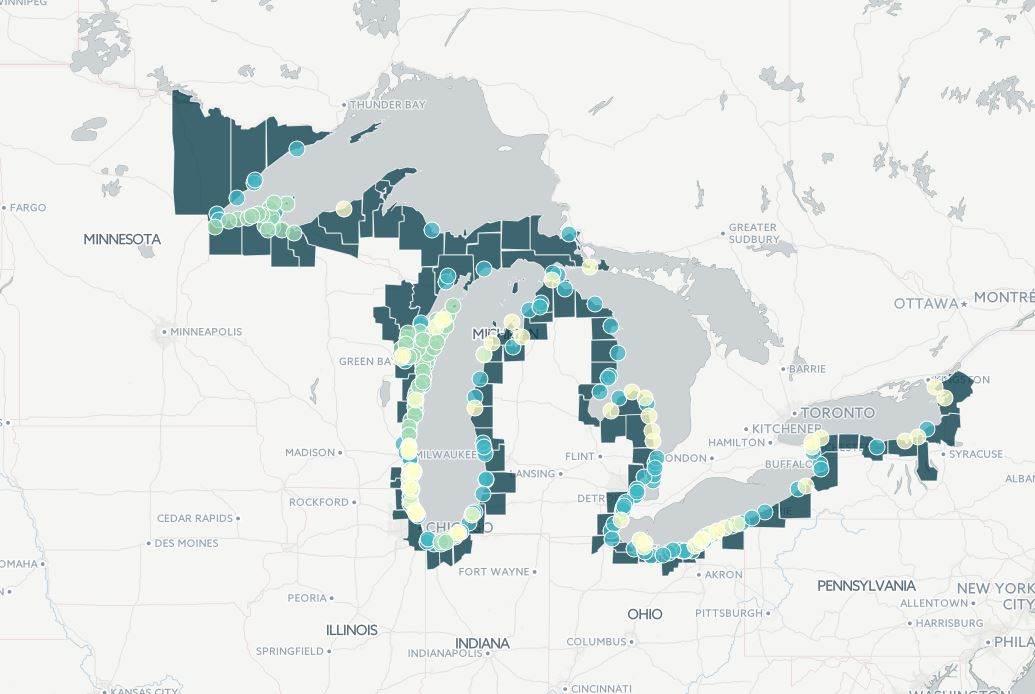
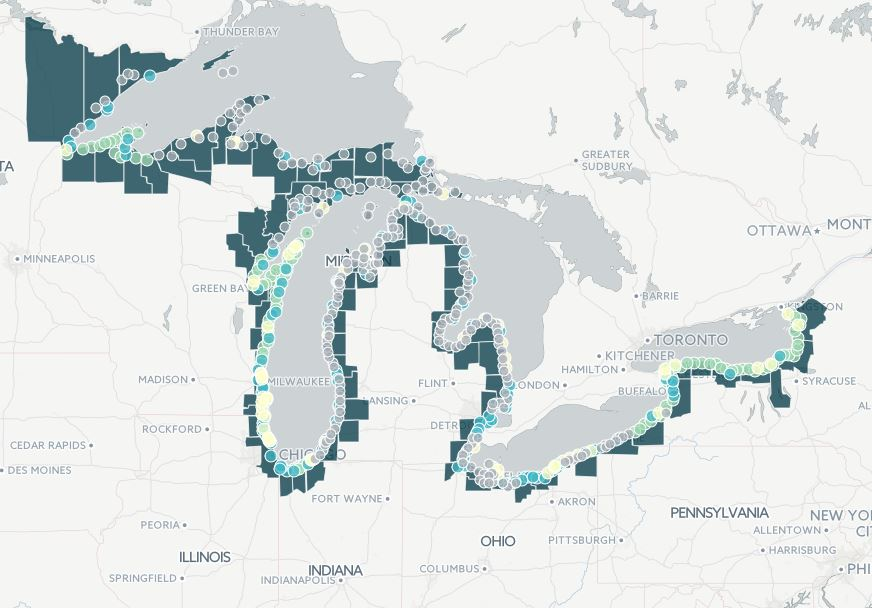
updates

diff --git a/index.html b/index.html
@@ -32,28 +32,51 @@
 		<div class="container">
 			<div class="row padRow">
 				<div class="col-md-6">
-					<a href="https://coastmapdevelop.github.io/testGoogleSpreadsheet/" target="_blank"><img class="img-responsive myImage" src="img/greatLakes.JPG" alt="Great Lakes"></a>
+					<a href="https://coastmapdevelop.github.io/fullCoast/" target="_blank"><img class="img-responsive myImage" src="img/greatLakes.JPG" alt="Great Lakes"></a>
 				</div>
 				<div class="col-md-6 myCol">
 					<h4><b>Great Lakes Coastal Overview</b></h4>
-					<p>This web map contains counties, cities, towns, and villages for all communities around the Great Lakes.</p>
+					<p>This web map contains counties, cities, towns, villages, and other (townships, charter townships, buroughs, Indian reservations) for all communities around the Great Lakes.</p>
 				</div>
 			</div>
 			
 			
 			<div class="row padRow">
 				<div class="col-md-6">
-					<a href="https://coastmapdevelop.github.io/southernWI/" target="_blank"><img class="img-responsive myImage" src="img/southernWI.JPG" alt="Southern Wisconsin"></a>
+					<a href="https://coastmapdevelop.github.io/fullWisconsin/" target="_blank"><img class="img-responsive myImage" src="img/fullWisconsin.JPG" alt="Full Wisconsin"></a>
+				</div>
+				<div class="col-md-6 myCol">
+					<h4><b>Wisconsin Coastal Overview</b></h4>
+					<p>This web map contains counties, cities, towns, and villages for all Wisconsin Coastal Communities.</p>
+				</div>
+			</div>
+			
+			<div class="row padRow">
+				<div class="col-md-6">
+					<a href="https://coastmapdevelop.github.io/southernWisconsin/" target="_blank"><img class="img-responsive myImage" src="img/southernWisconsin.JPG" alt="Southern Wisconsin"></a>
 				</div>
 				<div class="col-md-6 myCol">
 					<h4><b>Southern Wisconsin Coastal Overview</b></h4>
-					<p>This web map contains only four counties in southern Wisconsin that border Lake Michigan, including Kenosha, Racine, Milwaukee, and Ozaukee. In addition 
-						the map includes the cities, towns, and villages within those counties. (most recent development).</p.
+					<p>This web map contains only four counties in southern Wisconsin that border Lake Michigan; Kenosha, Racine, Milwaukee, and Ozaukee county. In addition 
+						the map includes the cities, towns, and villages within those counties.</p>
 				</div>
 			</div>
+			
+			
 		</div>
 	</section>
-	
+	<!--
+	<div class="row padRow">
+				<div class="col-md-6">
+					<a href="https://coastmapdevelop.github.io/southernWisconsin/" target="_blank"><img class="img-responsive myImage" src="img/southernWI.JPG" alt="Southern Wisconsin"></a>
+				</div>
+				<div class="col-md-6 myCol">
+					<h4><b>Southern Wisconsin Coastal Overview</b></h4>
+					<p>This web map contains only four counties in southern Wisconsin that border Lake Michigan; Kenosha, Racine, Milwaukee, and Ozaukee county. In addition 
+						the map includes the cities, towns, and villages within those counties.</p>
+				</div>
+			</div>
+			-->
 	
 	
 

diff --git a/fullCoast/js/initMapLeaf.js b/fullCoast/js/initMapLeaf.js
@@ -81,7 +81,7 @@ function main() {
 		["#41b6c4", "bubble02"],
 		["#a1dab4", "bubble03"],
 		["#ffffcc", "bubble04"],
-		["#F1948A", "bubble05"]
+		["#ABB2B9", "bubble05"] 
 	];
 	var clickedCountyName = [];		// stores the last clicked county name
 	var clickedUrbanName = [];		// stores the last clicked urban name
@@ -252,7 +252,7 @@ function main() {
 	};
 	
 	var otherPointsStyle = {
-		radius: 6,
+		radius: 5,
 		fillColor: colorPal[4][0],
 		color: "white",
 		weight: 1,

diff --git a/southernWisconsin/css/style.css b/southernWisconsin/css/style.css
@@ -36,7 +36,7 @@ html, body {
 #title h2 {
 	position: absolute;
 	top: -7px;
-	right: -80px;
+	right: -85px;
 	margin-top: 0;
 }
 
@@ -44,12 +44,12 @@ html, body {
 	position: absolute;
 	font-size: 16px;
 	top: 25px;
-	right: -57px;
+	right: -60px;
 	margin-top: 0;
 }
 
 #title img {
-	width: 100px;
+	width: 115px;
 	height: 65px;
 	position: absolute;
 	top: -10px;

diff --git a/fullCoast/css/style.css b/fullCoast/css/style.css
@@ -36,7 +36,7 @@ html, body {
 #title h2 {
 	position: absolute;
 	top: -7px;
-	right: 10px;
+	right: -12px;
 	margin-top: 0;
 }
 
@@ -44,12 +44,12 @@ html, body {
 	position: absolute;
 	font-size: 16px;
 	top: 25px;
-	right: -30px;
+	right: -50px;
 	margin-top: 0;
 }
 
 #title img {
-	width: 100px;
+	width: 115px;
 	height: 65px;
 	position: absolute;
 	top: -10px;

diff --git a/fullWisconsin/css/style.css b/fullWisconsin/css/style.css
@@ -36,7 +36,7 @@ html, body {
 #title h2 {
 	position: absolute;
 	top: -7px;
-	right: 15px;
+	right: 5px;
 	margin-top: 0;
 }
 
@@ -44,12 +44,12 @@ html, body {
 	position: absolute;
 	font-size: 16px;
 	top: 25px;
-	right: -30px;
+	right: -50px;
 	margin-top: 0;
 }
 
 #title img {
-	width: 100px;
+	width: 115px;
 	height: 65px;
 	position: absolute;
 	top: -10px;

diff --git a/southernWisconsin/index.html b/southernWisconsin/index.html
@@ -88,6 +88,7 @@
 	<div id="supMobileMenu">
 		<h3>Southern Wisconsin</h3>
 		<p>Coastal Communities Overview</p>
+		<img class="img-rounded" width="200" height="100" src="img/seaGrant.jpg" alt="Sea Grant Logo"></a>
 		<hr>
 		
 		<h3 style="text-align: center; cursor:pointer;" onclick="myNameSpace.mobileMenuClicked(0)">Search</h3>

diff --git a/fullCoast/index.html b/fullCoast/index.html
@@ -88,6 +88,7 @@
 	<div id="supMobileMenu">
 		<h3>Great Lakes</h3>
 		<p>Coastal Communities Overview</p>
+		<img class="img-rounded" width="200" height="100" src="img/seaGrant.jpg" alt="Sea Grant Logo"></a>
 		<hr>
 		
 		<h3 style="text-align: center; cursor:pointer;" onclick="myNameSpace.mobileMenuClicked(0)">Search</h3>

diff --git a/fullWisconsin/index.html b/fullWisconsin/index.html
@@ -88,6 +88,7 @@
 	<div id="supMobileMenu">
 		<h3>Wisconsin</h3>
 		<p>Coastal Communities Overview</p>
+		<img class="img-rounded" width="200" height="100" src="img/seaGrant.jpg" alt="Sea Grant Logo"></a>
 		<hr>
 		
 		<h3 style="text-align: center; cursor:pointer;" onclick="myNameSpace.mobileMenuClicked(0)">Search</h3>
